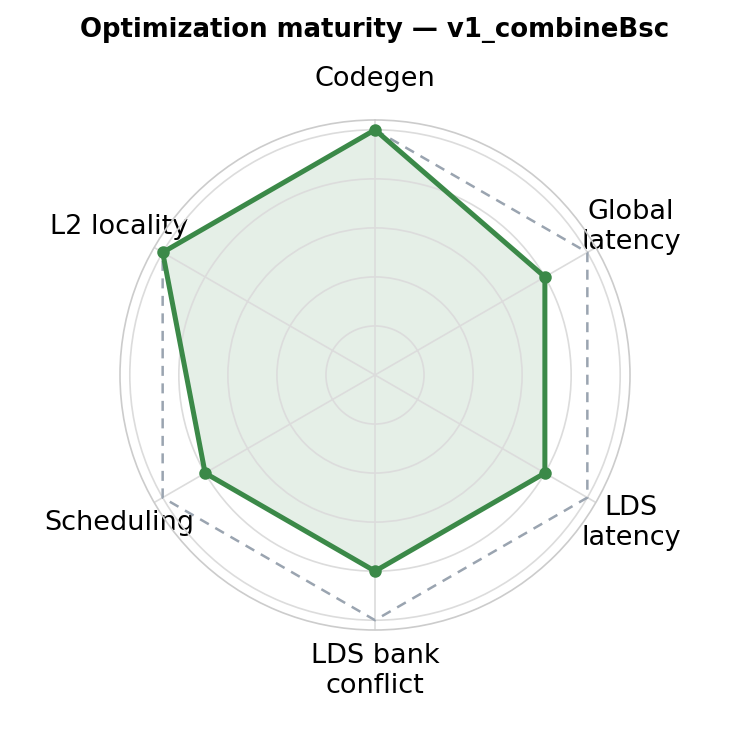
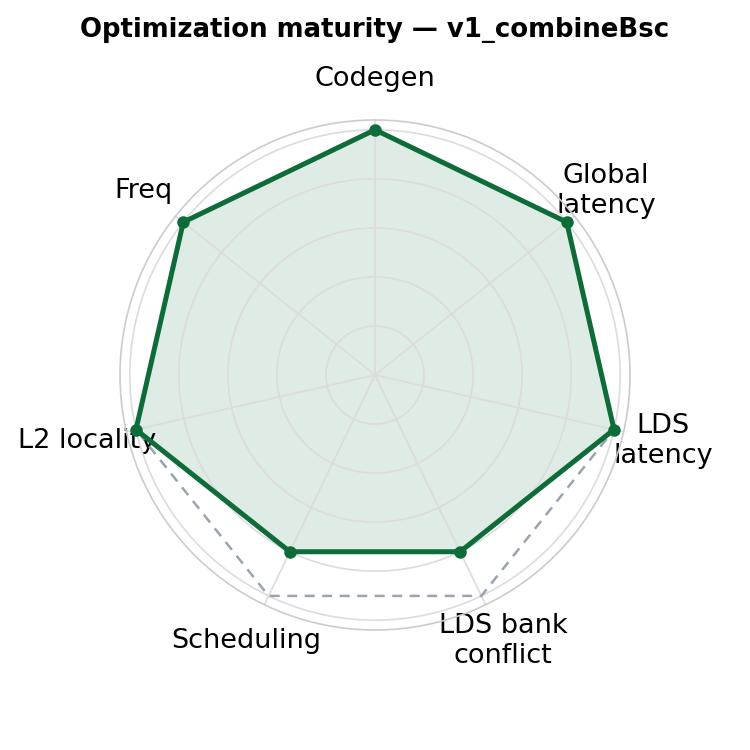
maturity radar: add "Freq" axis to the inter_wave/a4w4 series
The a4w4 8-wave series now carries a 7th "Freq" (clock frequency) axis so the
v1 -> v2 step reads correctly: v2's 32x32x64 lifts scheduling/occupancy to the
optimal envelope (~98% MFMA) but the wider MFMA throttles the clock, so end-to-
end TFLOPS lands below v1. plot_maturity_radar.py now picks 6 or 7 axes per the
score list length; all other kernels stay at 6 axes.

Also: v1_combineBsc global-latency 4->5 and LDS-latency 4->5.
Scores: v0=[2,4,3,4,3,5,5] v1=[5,5,5,4,4,5,5] v2=[5,5,5,5,5,5,3].

Changed region(s): [[0.0613, 0.1533, 0.9507, 0.92], [0.7667, 0.644, 0.92, 0.736], [0.0307, 0.552, 0.0613, 0.6133]]

diff --git a/scripts/plot_maturity_radar.py b/scripts/plot_maturity_radar.py
@@ -63,7 +63,9 @@ LO, HI = 1, 5  # score scale: 1 = naive/lowest, 5 = optimal
 
 # path under kernels/gemm/ -> six scores, in DIMS order:
 #   [codegen, global-latency, lds-latency, lds-bank-conflict, scheduling, L2-locality]
-# Roughly cumulative within a series; rough author judgment. Edit as it firms up.
+# A kernel may carry a 7th score for "Freq" (clock frequency) when throttling is
+# part of its story — the inter_wave/a4w4 series does, to show v2 trading clock
+# for occupancy. Roughly cumulative within a series; rough author judgment.
 SCORES = {
     # intra_wave/a16w16 — the 4-wave FP16 v0->v9 optimization journey
     "intra_wave/a16w16/v0_naive": [1, 1, 1, 1, 1, 1],  # naive baseline
@@ -83,9 +85,12 @@ SCORES = {
     # inter_wave — the 8-wave warp-pipeline route
     "inter_wave/a16w16": [5, 5, 5, 5, 5, 5],  # ping-pong, ~99.8% loop MFMA
     "inter_wave/a8w8": [5, 5, 5, 5, 5, 5],  # ping-pong BF8, ~99.7%
-    "inter_wave/a4w4/v0_sliceMN": [2, 4, 3, 4, 3, 5],  # B-scale byte-shuffle (118 v_perm), ~57%
-    "inter_wave/a4w4/v1_combineBsc": [5, 4, 4, 4, 4, 5],  # combined B-scale ds_read_tr, ~80%
-    "inter_wave/a4w4/v2_mfma32x32x64": [5, 5, 5, 5, 5, 5],  # 32x32x64 + conflict-free LDS, ~98%
+    # a4w4 8-wave series carries the 7th "Freq" axis (clock frequency):
+    "inter_wave/a4w4/v0_sliceMN": [2, 4, 3, 4, 3, 5, 5],  # byte-shuffle (~57%); full clock
+    "inter_wave/a4w4/v1_combineBsc": [5, 5, 5, 4, 4, 5, 5],  # combined B-scale (~80%); full clock
+    # v2: 32x32x64 lifts scheduling/occupancy (~98%) but the wider MFMA throttles
+    # the clock, so freq drops and end-to-end TFLOPS lands below v1.
+    "inter_wave/a4w4/v2_mfma32x32x64": [5, 5, 5, 5, 5, 5, 3],  # +sched, throttled clock
 }
 
 
@@ -101,7 +106,11 @@ def title_of(key):
 
 
 def radar(title, scores, out_png):
-    n = len(DIMS)
+    # Most kernels use the 6 DIMS; a kernel may carry a 7th "Freq" (clock
+    # frequency) score when clock throttling is part of its story (e.g. the
+    # inter_wave/a4w4 series, where wider MFMA trades occupancy for clock).
+    dims = DIMS + ["Freq"] if len(scores) > len(DIMS) else DIMS
+    n = len(dims)
     ang = np.linspace(0, 2 * np.pi, n, endpoint=False)
     closed = np.concatenate([ang, ang[:1]])
     vals = np.array(scores + scores[:1], dtype=float)
@@ -130,7 +139,7 @@ def radar(title, scores, out_png):
     # A rough visual (polygon size vs the dashed optimal envelope) — no numeric
     # scale, per-vertex values, or legend.
     ax.set_xticks(ang)
-    ax.set_xticklabels(DIMS, fontsize=13)
+    ax.set_xticklabels(dims, fontsize=13)
     ax.set_ylim(0, HI + 0.2)
     ax.set_yticks(range(LO, HI + 1))
     ax.set_yticklabels([])
@@ -155,7 +164,7 @@ def radar(title, scores, out_png):
 
 def main():
     for key, scores in SCORES.items():
-        assert len(scores) == len(DIMS), f"{key}: need {len(DIMS)} scores"
+        assert len(scores) in (len(DIMS), len(DIMS) + 1), f"{key}: need 6 or 7 scores"
         out = os.path.join(GEMM, key, "images", "maturity_radar.png")
         radar(title_of(key), scores, out)
 
